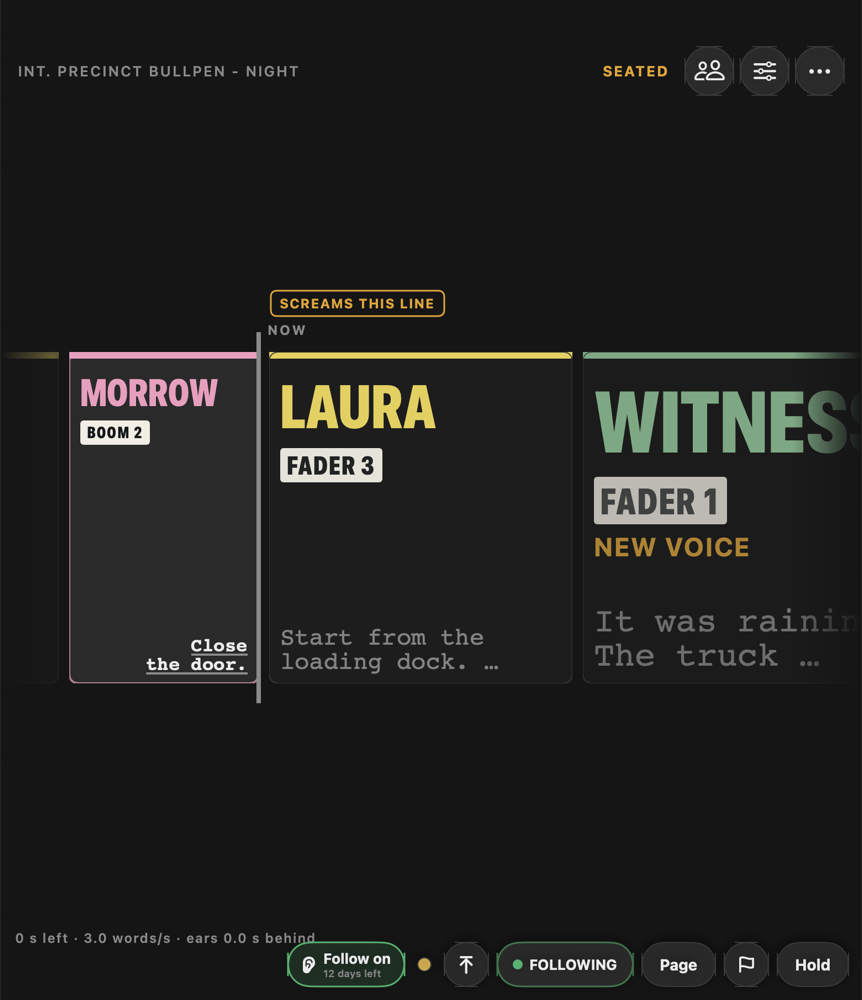
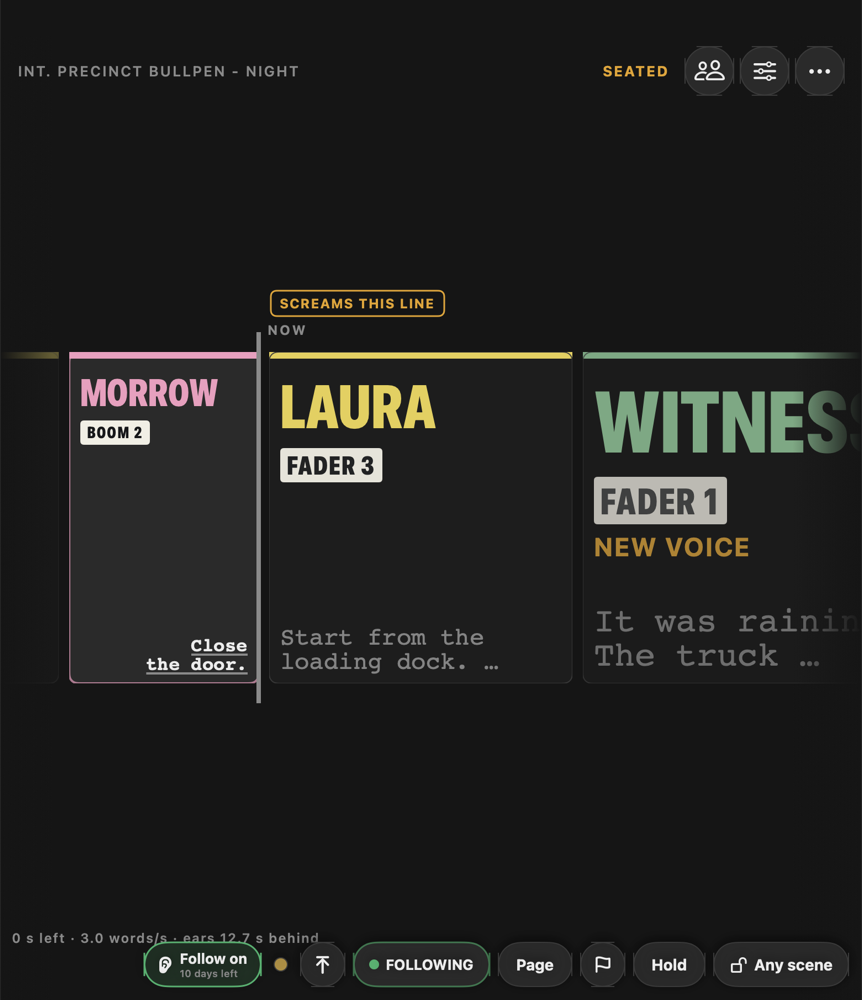
Manual: the 2026-09-23 edition (scene lock, Open PDF starts a new packet, the notarized Mac image), two grabs re-shot

Changed region(s): [[0.0, 0.93, 0.9652, 0.992]]

diff --git a/manual.html b/manual.html
@@ -31,7 +31,7 @@ footer { margin-top: 48px; color: #5c5c5c; font-size: 15px; border-top: 1px soli
 <body><main>
 <header><img src="gothamsound.png" alt="Gotham Sound"></header>
 <h1>Sides Helper User Manual</h1>
-<p class="meta">For the iPad and Mac app from Gotham Sound. Updated 2026-09-21, for build 120.</p>
+<p class="meta">For the iPad and Mac app from Gotham Sound. Updated 2026-09-23, for build 125.</p>
 <nav class="toc"><p>On this page</p><ul><li><a href="#what-it-is">What it is</a></li><li><a href="#what-it-costs">What it costs</a></li><li><a href="#getting-started">Getting started</a></li><li><a href="#if-something-goes-wrong-or-you-want-something">If something goes wrong, or you want something</a></li><li><a href="#before-you-go-to-set">Before you go to set</a></li><li><a href="#loading-the-day-x27-s-sides">Loading the day&#x27;s sides</a></li><li><a href="#the-roster-and-the-key">The roster and the KEY</a></li><li><a href="#the-feed">The feed</a></li><li><a href="#during-the-take">During the take</a></li><li><a href="#follow-displays">Follow displays</a></li><li><a href="#what-the-colors-mean">What the colors mean</a></li><li><a href="#taking-control">Taking control</a></li><li><a href="#exports">Exports</a></li><li><a href="#privacy">Privacy</a></li><li><a href="#troubleshooting">Troubleshooting</a></li><li><a href="#quick-reference">Quick reference</a></li></ul></nav>
 <h2 id="what-it-is">What it is</h2>
 <p>Sides Helper is the sides tool and the read-along in one app. With nothing plugged in it does everything the free web enlarger does: opens the locked PDF, enlarges the dialogue or the whole page, highlights each character in their color, Reader mode, prints. Turn on Follow and it listens to your mix, follows the dialogue, and the screen becomes the page you&#x27;d have cut, highlighted and taped up beside the monitor, with a thin rail across the top showing who&#x27;s on now and the next five in order, each with your own source label (fader 3, boom 2, the plant) and color.</p>
@@ -44,8 +44,8 @@ footer { margin-top: 48px; color: #5c5c5c; font-size: 15px; border-top: 1px soli
 <figure><img src="manual/manual-settings.png" alt="Settings on the iPad: the trial and the unlock, the off-script gate, links to Display and the feed check, and the Advanced hold" loading="lazy"><figcaption>Settings on the iPad: the trial and the unlock, the off-script gate, links to Display and the feed check, and the Advanced hold</figcaption></figure>
 <h2 id="getting-started">Getting started</h2>
 <p>Four things and you are set: install, open the sides, set the KEY, turn Follow on. Turning Follow on is where the right input matters, so that step is spelled out.</p>
-<p><strong>1. Install.</strong> On the Mac, open the disk image, drag Sides Helper to Applications, and eject it. The first open is macOS asking once about an app not yet signed with an Apple certificate. On macOS 15 or later: double-click the app, click Done, then in System Settings &gt; Privacy &amp; Security scroll to Security and click Open Anyway. On macOS 14: right-click the app, choose Open, then Open again. The Read me first inside the disk image has the same steps. On the iPad, install from TestFlight or the App Store. Nothing asks for an account.</p>
-<p><strong>2. Open the sides.</strong> Share the PDF to Sides Helper from Mail, Messages or Files, AirDrop it, drag it in, or use Open PDF in the ⋯ menu at the top right. On the Mac, File &gt; Open or drop the PDF on the window. The page comes up in screenplay layout with every character in a highlighter color. No sides on hand? Open sample sides on the first screen opens a short made-up scene with a KEY already filled in. Sides that came as a Netflix link? Open a sides link, in the ⋯ menu or on the first screen, takes the pasted link, turns the viewer link into the file behind it, and opens it in Safari; tap Share, then Sides Helper. On the Mac the link opens in your browser: save the PDF and open it, or drag the address-bar icon onto the window. The Mac also takes a PDF dropped on the Dock icon, and Cmd-O opens one, Cmd-Shift-O adds another.</p>
+<p><strong>1. Install.</strong> On the Mac, open the disk image, drag Sides Helper to Applications, and eject it. It opens like any app: the disk image and the app inside are signed and notarized, so macOS asks nothing. The Read me first inside the disk image says the same. On the iPad, install from TestFlight or the App Store. Nothing asks for an account.</p>
+<p><strong>2. Open the sides.</strong> Share the PDF to Sides Helper from Mail, Messages or Files, AirDrop it, drag it in, or use Open PDF in the ⋯ menu at the top right. With sides already open, Open PDF starts a new packet and Add another PDF adds pages to the one you have. On the Mac, File &gt; Open or drop the PDF on the window. The page comes up in screenplay layout with every character in a highlighter color. No sides on hand? Open sample sides on the first screen opens a short made-up scene with a KEY already filled in. Sides that came as a Netflix link? Open a sides link, in the ⋯ menu or on the first screen, takes the pasted link, turns the viewer link into the file behind it, and opens it in Safari; tap Share, then Sides Helper. On the Mac the link opens in your browser: save the PDF and open it, or drag the address-bar icon onto the window. The Mac also takes a PDF dropped on the Dock icon, and Cmd-O opens one, Cmd-Shift-O adds another.</p>
 <figure><img src="manual/manual-page.png" alt="The page on an iPad mini in portrait: the rail across the top, the current line with its green bar, each character in their highlighter color, a warning note under a line" loading="lazy"><figcaption>The page on an iPad mini in portrait: the rail across the top, the current line with its green bar, each character in their highlighter color, a warning note under a line</figcaption></figure>
 <p><strong>3. Set the KEY.</strong> The two-person icon at the top right opens Roster and KEY: one row per character. Tap the source cell, type the label you want to see (FADER 3, BOOM 2, PLANT), tap a color. The KEY is remembered by character name, so tomorrow&#x27;s sides come up already set.</p>
 <figure><img src="manual/manual-roster.png" alt="Roster and KEY: one row per character with its color, line count and scenes, the source label as typed, a keypad button and an eye to hide a row" loading="lazy"><figcaption>Roster and KEY: one row per character with its color, line count and scenes, the source label as typed, a keypad button and an eye to hide a row</figcaption></figure>
@@ -64,7 +64,7 @@ footer { margin-top: 48px; color: #5c5c5c; font-size: 15px; border-top: 1px soli
 <ol><li>Plug in the recorder and pick it under Feed + STT check in the ⋯ menu. Choose a channel or Sum (L+R).</li><li>On the same panel tap Listen and read the line it shows you into the feed. You want the words back (heard), a meter in the green, and a speed under 0.5×.</li><li>Open Display (sliders icon, top right) and set it up how you like it: paper or dark, what the rail shows, how far ahead. Paper is the default and reads like the taped-up pages; dark is easier under a tent.</li></ol>
 <p>A note on the feed. Your mix out carries your own fader moves, so a lav you have down is quiet in the feed until you bring it up. That is fine when you are on top of it. If you want the app to hear everyone at full level regardless, send it a pre-fader aux with every lav at unity.</p>
 <h2 id="loading-the-day-x27-s-sides">Loading the day&#x27;s sides</h2>
-<p>Open the sides PDF in Sides Helper the same way you open any PDF on an iPad: share it from Mail or Messages, open it from Files, AirDrop it, drag it in from another app, or use Open PDF, or Add another PDF, in the ⋯ menu. On the Mac: File &gt; Open, or drop the PDF on the window or the Dock icon. Parsing a normal day of sides takes a few seconds.</p>
+<p>Open the sides PDF in Sides Helper the same way you open any PDF on an iPad: share it from Mail or Messages, open it from Files, AirDrop it, drag it in from another app, or use Open PDF in the ⋯ menu. With sides already open, Open PDF starts a new packet, the old one&#x27;s KEY remembered as Close packet remembers it, and Add another PDF adds pages to the one you have. On the Mac: File &gt; Open, or drop the PDF on the window or the Dock icon. Parsing a normal day of sides takes a few seconds.</p>
 <p>Things that work without you doing anything:</p>
 <ul><li>Locked PDFs. Production sides are usually permission-locked. The app reads them and treats the result with the same care as the original.</li><li>Several PDFs. Add a second episode&#x27;s pages and they join the same packet. Page markers carry the episode name so you can tell them apart. The same PDF opened again replaces itself rather than adding a copy.</li><li>Call sheets, title pages, revision tables. Pages with no dialogue are skipped in the reader.</li><li>Colored revisions. Revision stars in the margin are dropped from the reading text. The words are what matter.</li></ul>
 <p>Things the app will refuse, with a message:</p>
@@ -92,7 +92,7 @@ footer { margin-top: 48px; color: #5c5c5c; font-size: 15px; border-top: 1px soli
 <p><strong>A hollow chip</strong> is a character you haven&#x27;t given a source. They still show in the rail so you see them coming.</p>
 <p><strong>Notes.</strong> Press a line to write yourself a note: hold a finger on it, touch it with the Pencil, or right-click it on the Mac. &quot;Fade in early, he starts under her,&quot; &quot;screams this line,&quot; whatever you&#x27;d have scrawled in the margin. It shows under the line in a little box, and it rides the rail: the chip for that line carries a badge while it&#x27;s further out, and shows the note text when that line is next. Mark one as a warning and the chip pulses when it comes up. Tap a note to change or delete it. On a take, the flag button beside Hold drops a flag on the line being heard, and held, on the next speaker&#x27;s line. Your quick phrases appear beside the bar for a few seconds: tap one and the flag has its words, tap the warning glyph and it is a warning, or leave it and it stays a flag to fill in between takes. A flag shows as a flag under the line and on the rail. Notes are remembered by show, and when a new draft of the sides comes in they find their line again; anything that can&#x27;t find its line waits in an Unplaced tray rather than disappearing.</p>
 <p><strong>Bigger notes, and the Pencil.</strong> Display has a note size: normal, large, or huge, and a switch that makes every warning huge, for one you can read from the boom. With an Apple Pencil you can write the note instead of typing it. By default your handwriting turns into text as you write. Switch to Ink in Display and it stays exactly as you scrawled it, on the page and as a small thumbnail on the rail. Ink is the iPad&#x27;s; on the Mac, notes are typed.</p>
-<p><strong>Make it yours.</strong> The sliders icon at the top right opens Display. Paper, dark, or follow the iPad. Layout: Screenplay, the printed page, or Reader, the web tool&#x27;s Reader mode set full width in a serif with the wraps removed, twice the size by default with its own slider up to 3×. Sources on the chips or just names. How far ahead the rail shows, one to five. Get-ready ring on or off. Full script or dialogue only. Names centered like the page or in a left column. Page markers, faded past lines, where the current line sits while following, Scroll or Turn for how the page moves, text size, which a pinch on the page sets too, two fingers on the iPad or the trackpad on the Mac, for the layout you are in. And the quick labels on the KEY keypad, so if you call it a hop it says HOP. All of it sticks on this device.</p>
+<p><strong>Make it yours.</strong> The sliders icon at the top right opens Display. Paper, dark, or follow the iPad. Layout: Screenplay, the printed page, or Reader, the web tool&#x27;s Reader mode set full width in a serif with the wraps removed, twice the size by default with its own slider up to 3×. Sources on the chips or just names. How far ahead the rail shows, one to five. Get-ready ring on or off. Full script or dialogue only. Names centered like the page or in a left column. Page markers, faded past lines, where the current line sits while following, Scroll or Turn for how the page moves, Stay in the scene (the scene lock, below), text size, which a pinch on the page sets too, two fingers on the iPad or the trackpad on the Mac, for the layout you are in. And the quick labels on the KEY keypad, so if you call it a hop it says HOP. All of it sticks on this device.</p>
 <figure><img src="manual/manual-reader.png" alt="The Reader layout on the iPad mini: the same page set full width in a serif, names centered, the highlights, the cursor bar and a note where they were" loading="lazy"><figcaption>The Reader layout on the iPad mini: the same page set full width in a serif, names centered, the highlights, the cursor bar and a note where they were</figcaption></figure>
 <h2 id="follow-displays">Follow displays</h2>
 <p>The page is one of four ways to watch a take. Display &gt; Follow display picks one. All four read the same tracker and show the same names, sources and colors.</p>
@@ -101,7 +101,7 @@ footer { margin-top: 48px; color: #5c5c5c; font-size: 15px; border-top: 1px soli
 <p><strong>Drum.</strong> Portrait, for the mini on the mount. Lines on a wheel under a band in the top third of the screen: the line just heard above it, the line being heard under the band at full size with its last words underlined (the outcue), the lines to come beneath, receding. Names carry; the words are only the cues by default (Display: Words on the cue view). When the current line is about to end, the next name blinks: on deck. The blink is a lead, not a fact.</p>
 <figure><img src="manual/manual-drum.png" alt="The Drum on an iPad mini: the line being heard under the band with its outcue underlined, the lines to come beneath, a warning note flagged at the bottom" loading="lazy"><figcaption>The Drum on an iPad mini: the line being heard under the band with its outcue underlined, the lines to come beneath, a warning note flagged at the bottom</figcaption></figure>
 <p><strong>Horizon.</strong> Landscape. Lines as blocks on a belt that runs right to left under a playhead marked NOW, each block as wide as its line is long. The belt moves at the read&#x27;s own pace and never backwards (Display: Belt motion, Glide or Step). The script&#x27;s own events (off screen, on the phone, overlapping) and your warning notes fly as flags above the block they belong to. The small line at the bottom left says how far the ears are behind the room.</p>
-<figure class="wide"><img src="manual/manual-horizon-mac-shot.png" alt="The Horizon on a Mac with Follow on: blocks on the belt under the NOW playhead, a flag above the line it belongs to, the state word at the top right, the pace and the ears&#x27; lag at the bottom left" loading="lazy"><figcaption>The Horizon on a Mac with Follow on: blocks on the belt under the NOW playhead, a flag above the line it belongs to, the state word at the top right, the pace and the ears&#x27; lag at the bottom left</figcaption></figure>
+<figure class="wide"><img src="manual/manual-horizon-mac-shot.png" alt="The Horizon on a Mac with Follow on: blocks on the belt under the NOW playhead, a flag above the line being heard, and the bar with the Follow switch, Top of scene, the pill, the Page pill, Note, Hold and the scene lock" loading="lazy"><figcaption>The Horizon on a Mac with Follow on: blocks on the belt under the NOW playhead, a flag above the line being heard, and the bar with the Follow switch, Top of scene, the pill, the Page pill, Note, Hold and the scene lock</figcaption></figure>
 <p><strong>Picture.</strong> Landscape. A camera feed over USB, full frame, with the belt as a lower third. The band carries the state word and the Follow controls, and nothing else sits on the picture. Display: band height, band opacity, camera (Auto takes a USB camera first). The feed is shown and nothing more: not recorded, not stored, not sent. In portrait the band shows alone.</p>
 <figure class="wide"><img src="manual/manual-picture.png" alt="The Picture: the demo picture full frame with the belt as a lower third; the band carries the state word, the buttons and the Follow controls" loading="lazy"><figcaption>The Picture: the demo picture full frame with the belt as a lower third; the band carries the state word, the buttons and the Follow controls</figcaption></figure>
 <p><strong>Ahead of the ears.</strong> The ears place words a second or two after they are said. The cue views run forward through that gap at the read&#x27;s pace, over the seconds the gate hears speech, so the next name lights when the line has run out rather than when the words come back. Display &gt; Ahead of the ears: Name, the default, lights the name and runs the belt to the end of the line. Block turns the cue view to the next line too, drawn dashed with the word ASSUMED until the tracker agrees, for anyone who accepts a wrong turn now and then in exchange. Off leaves the lead to the clock alone. The page and the rail never move on a guess.</p>
@@ -112,9 +112,9 @@ footer { margin-top: 48px; color: #5c5c5c; font-size: 15px; border-top: 1px soli
 <p>A yellow chip is still usually right. It just means the app is not yet confident enough to promise it. Dashed chips are a guess and you should treat them as one.</p>
 <h2 id="taking-control">Taking control</h2>
 <p>You can always put the cursor where you want it. The app takes the hint and keeps following from there.</p>
-<ul><li><strong>Tap a line</strong> to tell it where you are. The cursor lands there, the rail rebuilds from that line, and the app takes your word for it: it holds that spot for a few seconds before it&#x27;s allowed to disagree. This is the fastest correction there is.</li><li><strong>Top of scene</strong>, the button next to Hold. One tap puts the cursor on the first line of the scene you&#x27;re in.</li><li><strong>Tap a chip</strong> on the rail to seat the cursor on that speaker&#x27;s line.</li><li><strong>Hold.</strong> Freezes the cursor. Use it during blocking, rehearsal, and notes between takes so the rail doesn&#x27;t wander while people talk over the scene. The app keeps listening underneath, so when you release it re-finds the place within a couple of lines.</li></ul>
+<ul><li><strong>Tap a line</strong> to tell it where you are. The cursor lands there, the rail rebuilds from that line, and the app takes your word for it: it holds that spot for a few seconds before it&#x27;s allowed to disagree. This is the fastest correction there is.</li><li><strong>Top of scene</strong>, the button next to Hold. One tap puts the cursor on the first line of the scene you&#x27;re in.</li><li><strong>Tap a chip</strong> on the rail to seat the cursor on that speaker&#x27;s line.</li><li><strong>Hold.</strong> Freezes the cursor. Use it during blocking, rehearsal, and notes between takes so the rail doesn&#x27;t wander while people talk over the scene. The app keeps listening underneath, so when you release it re-finds the place within a couple of lines.</li><li><strong>Scene lock.</strong> The lock capsule next to Hold. Locked, the cursor stays in the scene you put it in, whatever the room says; when it sounds like another scene, a chip in the rail offers it and one tap moves there. A tap on a line, Top of scene or the scene list move the lock with you. Tap the capsule again to follow across scenes. Off until you turn it on, and it stays on; Display &gt; Follow &gt; Stay in the scene is the same switch.</li></ul>
 <p><strong>Resets and repeats.</strong> You do not have to do anything for a normal reset. When the crew goes back to one and the first lines of the scene are spoken again, the cursor jumps back on its own within a line or two. The same goes for coverage: shoot the same scene from three setups and it follows each take from wherever it starts, including mid-scene pickups.</p>
-<p><strong>Out-of-order scenes.</strong> Also handled. The packet is small, so the app is always checking every scene, not just the one it thinks you are in. Jumping from scene 14 to scene 9 is followed the same way a reset is.</p>
+<p><strong>Out-of-order scenes.</strong> Also handled. The packet is small, so the app is always checking every scene, not just the one it thinks you are in, and jumping from scene 14 to scene 9 is followed the same way a reset is. Unless you lock the scene. The lock capsule in the bar, next to Hold, keeps the cursor in the scene you put it in, so off-book talk that happens to match a line elsewhere moves nothing. When the room does sound like another scene, a chip in the rail offers it and one tap moves there; a tap on a line, Top of scene or the scene list move the lock with you. Tap the capsule again for a shot that runs from one scene into the next. It is off until you turn it on, and it stays on once you have; Display &gt; Follow &gt; Stay in the scene is the same switch.</p>
 <p><strong>Wh</strong><strong>y a reset takes a moment.</strong> The cursor moves on two windows of matching speech in a row, about six seconds, not on one stray word. That&#x27;s why a reset registers a line or two in, and why off-script remarks between takes leave it where it is.</p>
 <h2 id="exports">Exports</h2>
 <p>Everything you can export is under <strong>Export</strong> in Print / Export, in the ⋯ menu. Each one goes to Files, the printer or the Share sheet; on the Mac, Save PDF, Print or Share, and Cmd-P opens Print / Export.</p>
@@ -128,7 +128,7 @@ footer { margin-top: 48px; color: #5c5c5c; font-size: 15px; border-top: 1px soli
 <p>To wipe it: <strong>Close packet</strong> removes the script and keeps your KEY. <strong>Forget everything</strong> in Settings removes the packet, the KEY, and all settings. Turning in a rental iPad? Use Forget everything first.</p>
 <p>Exporting a full <code>.sceneline</code> puts the script text in a file you then hold. Lean exports and the source sheet contain no script text.</p>
 <h2 id="troubleshooting">Troubleshooting</h2>
-<table><tr><th>You see</th><th>Likely cause</th><th>Fix</th></tr><tr><td>Red pulse, meter moving</td><td>The feed is arriving but recognition is not getting words. Wrong channel, or gain far too low or too hot.</td><td>Feed + STT check: check the channel, then Listen and read a line.</td></tr><tr><td>Red pulse, meter flat</td><td>No audio reaching the app.</td><td>Check the cable and that the recorder is in USB audio mode. Feed lost banner means the device vanished.</td></tr><tr><td>Stuck banner every take</td><td>The scene being shot is not in the packet, or it is a heavily rewritten draft.</td><td>Add the right pages. If the words on set differ from the page, tap lines by hand for that scene.</td></tr><tr><td>Cursor lags a line behind</td><td>The device is slow: an older chip, or the small model on a busy day.</td><td>Feed + STT check, Model: base. Close other apps. An M-series iPad or Mac keeps up.</td></tr><tr><td>Wrong name in the strip</td><td>Two characters set to the same color, or a source label typed on the wrong row.</td><td>Prep: check the row. Colors are unique; sources repeat only when you mean them to.</td></tr><tr><td>A character is missing from the roster</td><td>The parse did not see a cue for them, usually a one-line part or an odd layout.</td><td>Type the name under the roster and Add.</td></tr><tr><td>Names look like R U M A</td><td>The PDF draws each letter separately and the parse failed to join them. Rare.</td><td>Report it with the page number, not the script. Meanwhile, hide the bad name and add the right one.</td></tr><tr><td>Chips gray, pulse gray</td><td>Hold is on.</td><td>Tap Hold to release.</td></tr><tr><td>Reader stopped scrolling</td><td>You scrolled it, so it is paused and the pill says so. Or Follow is off, and the page is a reader.</td><td>Tap a line, the pill, or Top of scene. With Follow off, turn Follow on.</td></tr><tr><td>Could not open this PDF</td><td>A scan, or AES-256 encryption.</td><td>Ask production for the original export.</td></tr><tr><td>A larger model will not download</td><td>The built-in model never downloads. Only the small or medium model, chosen in Feed + STT check, is fetched once.</td><td>Stay on base, or finish the download on Wi-Fi at home. After that the app needs no network.</td></tr><tr><td>The wheel spins on an open, then a message</td><td>The file or the sides engine did not answer in time: a PDF in iCloud not yet on this device, a slow disk or network share, or the engine after a long idle (fixed in build 100).</td><td>Do what the message says: wait for the cloud icon to clear, copy the file to the device, or try once more. If it happens again, Settings &gt; Send a report carries what the engine said.</td></tr><tr><td>Follow is on, but no feed</td><td>The input you picked is not plugged in, or nothing is. The alert names it.</td><td>Plug it in, or pick another input in Feed + STT check. The app never listens to the built-in mic in place of your pick.</td></tr><tr><td>The Follow button says $49.99 unlock</td><td>The 14-day trial has ended.</td><td>iPad: the in-app purchase, once. Mac: paste the key from your email into the unlock screen, or open the license file that came with it.</td></tr></table>
+<table><tr><th>You see</th><th>Likely cause</th><th>Fix</th></tr><tr><td>Red pulse, meter moving</td><td>The feed is arriving but recognition is not getting words. Wrong channel, or gain far too low or too hot.</td><td>Feed + STT check: check the channel, then Listen and read a line.</td></tr><tr><td>Red pulse, meter flat</td><td>No audio reaching the app.</td><td>Check the cable and that the recorder is in USB audio mode. Feed lost banner means the device vanished.</td></tr><tr><td>Stuck banner every take</td><td>The scene being shot is not in the packet, or it is a heavily rewritten draft.</td><td>Add the right pages. If the words on set differ from the page, tap lines by hand for that scene.</td></tr><tr><td>Cursor lags a line behind</td><td>The device is slow: an older chip, or the small model on a busy day.</td><td>Feed + STT check, Model: base. Close other apps. An M-series iPad or Mac keeps up.</td></tr><tr><td>Wrong name in the strip</td><td>Two characters set to the same color, or a source label typed on the wrong row.</td><td>Prep: check the row. Colors are unique; sources repeat only when you mean them to.</td></tr><tr><td>A character is missing from the roster</td><td>The parse did not see a cue for them, usually a one-line part or an odd layout.</td><td>Type the name under the roster and Add.</td></tr><tr><td>Names look like R U M A</td><td>The PDF draws each letter separately and the parse failed to join them. Rare.</td><td>Report it with the page number, not the script. Meanwhile, hide the bad name and add the right one.</td></tr><tr><td>Chips gray, pulse gray</td><td>Hold is on.</td><td>Tap Hold to release.</td></tr><tr><td>Reader stopped scrolling</td><td>You scrolled it, so it is paused and the pill says so. Or Follow is off, and the page is a reader.</td><td>Tap a line, the pill, or Top of scene. With Follow off, turn Follow on.</td></tr><tr><td>Could not open this PDF</td><td>A scan, or AES-256 encryption.</td><td>Ask production for the original export.</td></tr><tr><td>A larger model will not download</td><td>The built-in model never downloads. Only the small or medium model, chosen in Feed + STT check, is fetched once.</td><td>Stay on base, or finish the download on Wi-Fi at home. After that the app needs no network.</td></tr><tr><td>The wheel spins on an open, then a message</td><td>The file or the sides engine did not answer in time: a PDF in iCloud not yet on this device, a slow disk or network share, or the engine after a long idle (fixed in build 100).</td><td>Do what the message says: wait for the cloud icon to clear, copy the file to the device, or try once more. If it happens again, Settings &gt; Send a report carries what the engine said.</td></tr><tr><td>Follow is on, but no feed</td><td>The input you picked is not plugged in, or nothing is. The alert names it.</td><td>Plug it in, or pick another input in Feed + STT check. The app never listens to the built-in mic in place of your pick.</td></tr><tr><td>The Follow button says $49.99 unlock</td><td>The 14-day trial has ended.</td><td>iPad: the in-app purchase, once. Mac: paste the key from your email into the unlock screen, or open the license file that came with it.</td></tr><tr><td>The page jumped to another scene during a take</td><td>Someone spoke off book and the words matched a line in another scene.</td><td>Lock the scene: the lock capsule in the bar, or Display &gt; Follow &gt; Stay in the scene. The page then stays put, and a chip offers another scene when the room really is there.</td></tr></table>
 <h2 id="quick-reference">Quick reference</h2>
 <p><strong>Morning</strong></p>
 <ol><li>Plug in. Check the meter.</li><li>Open the sides. Look over the roster.</li><li>Set any new sources. Tap Follow.</li></ol>
